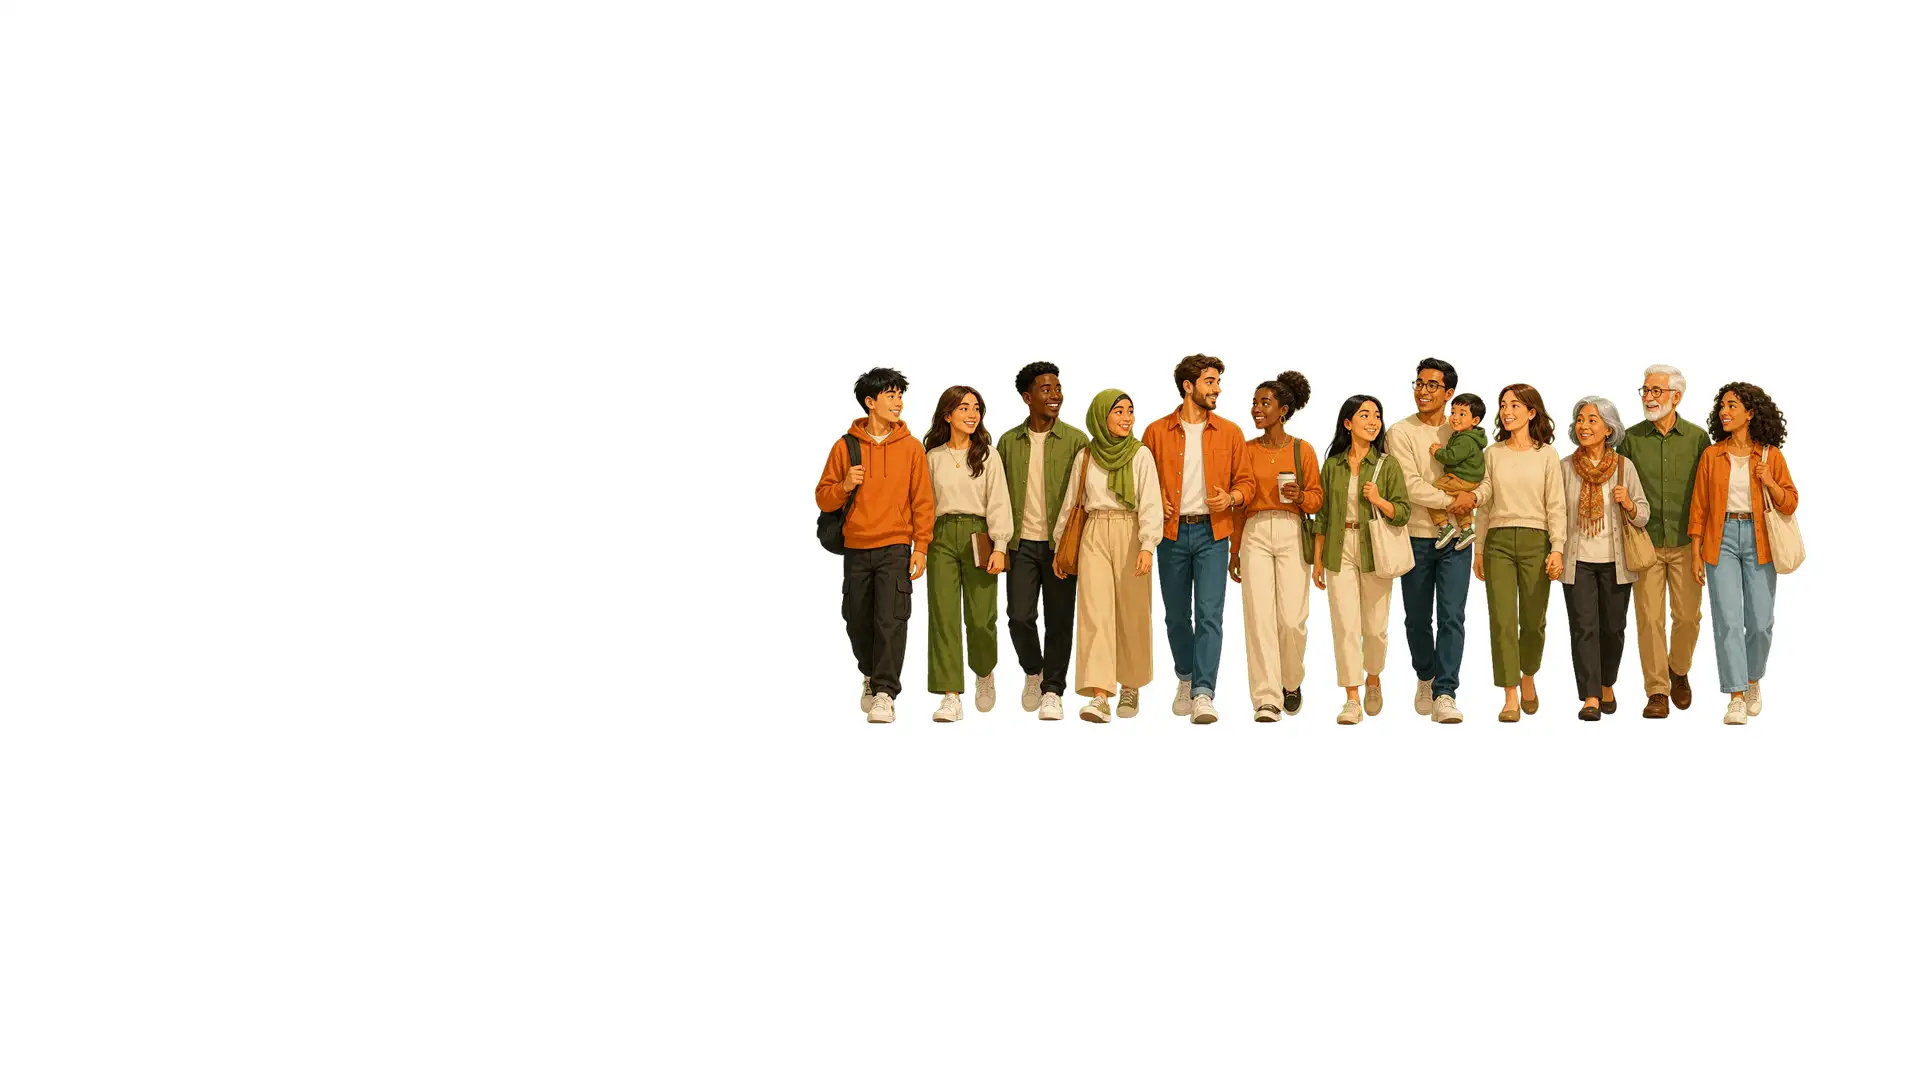
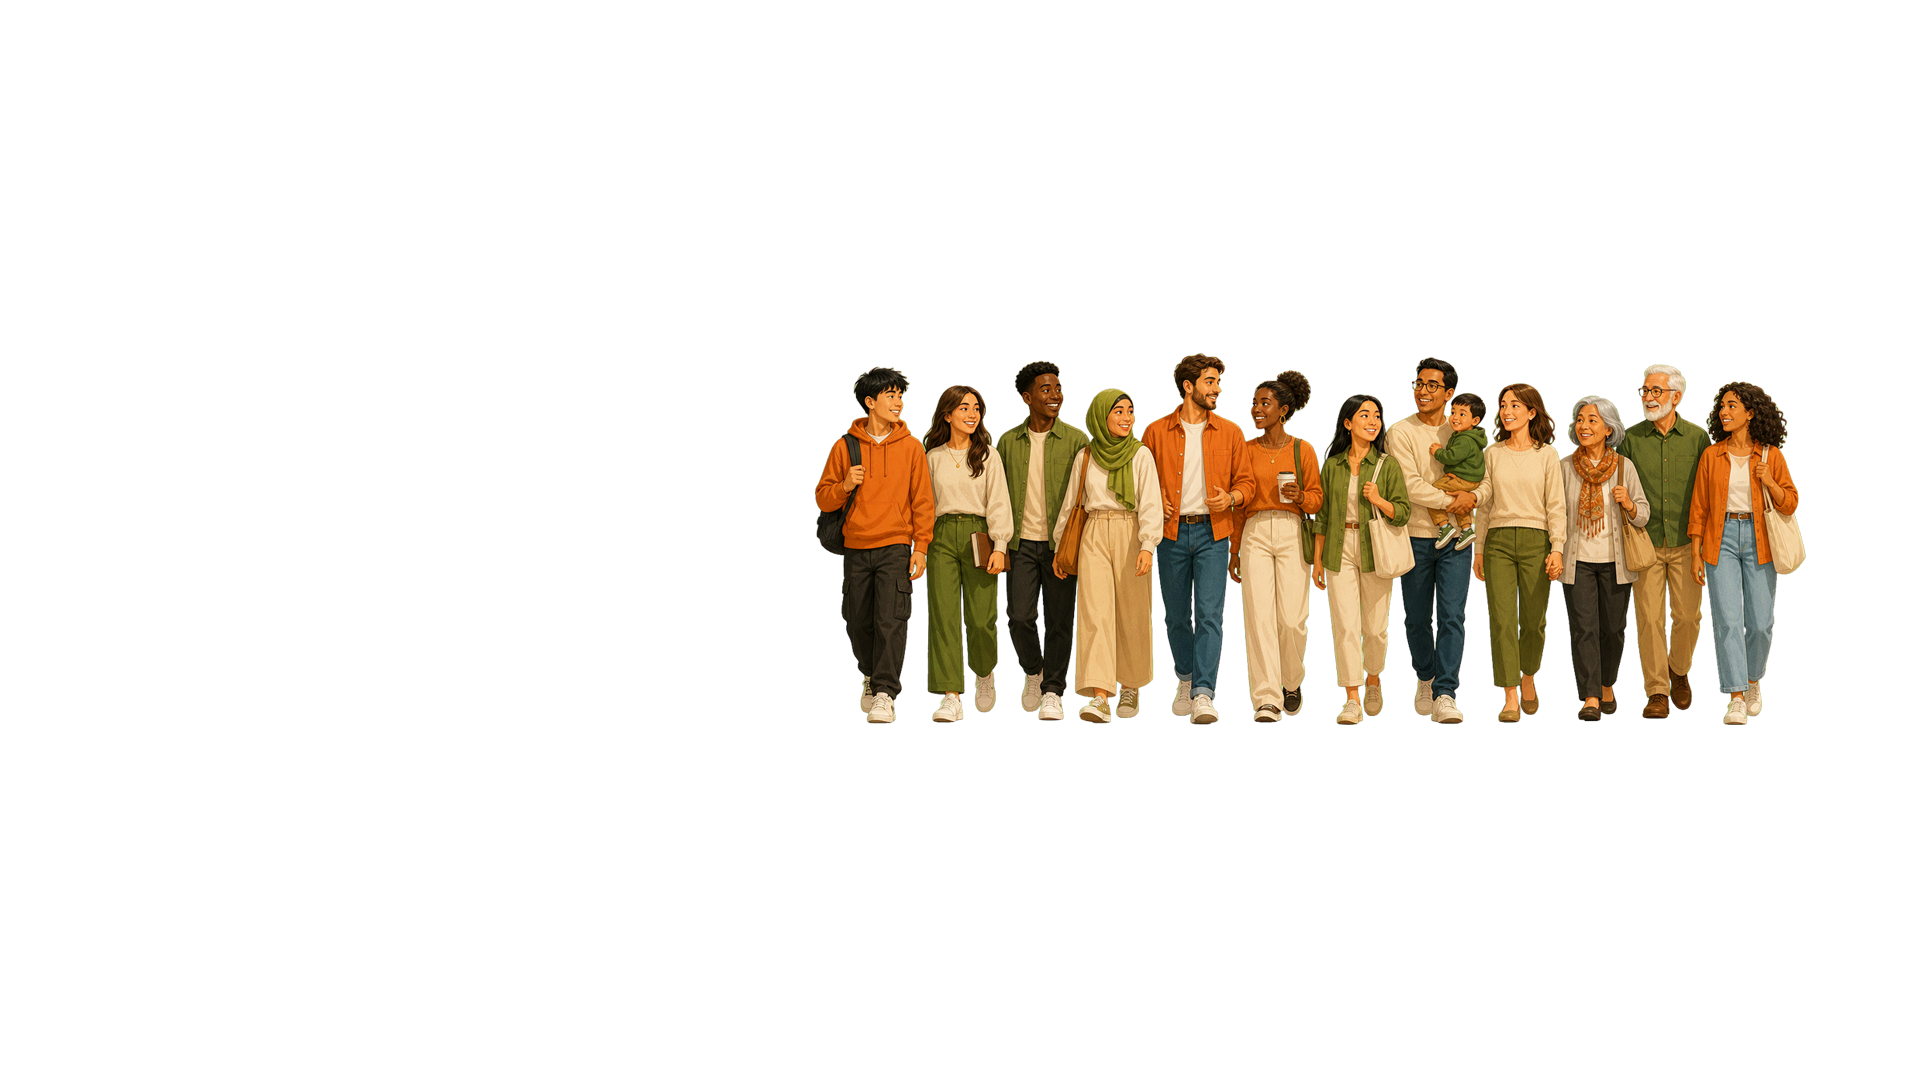
Publish admin workspace update

diff --git a/oneinhim_home_layout.js b/oneinhim_home_layout.js
@@ -122,6 +122,16 @@ window.ONEINHIM_PUBLISHED_HOME_CONTENT = {
           "alt": "Coming soon",
           "placeholder": true,
           "locked": false
+        },
+        {
+          "id": "artwork_only_1781435680260",
+          "artwork": "assets/OE_May_JohanToet_saturday2.webp",
+          "targetType": "none",
+          "target": "",
+          "contentId": "",
+          "alt": "Coming soon",
+          "placeholder": true,
+          "locked": false
         }
       ]
     },
